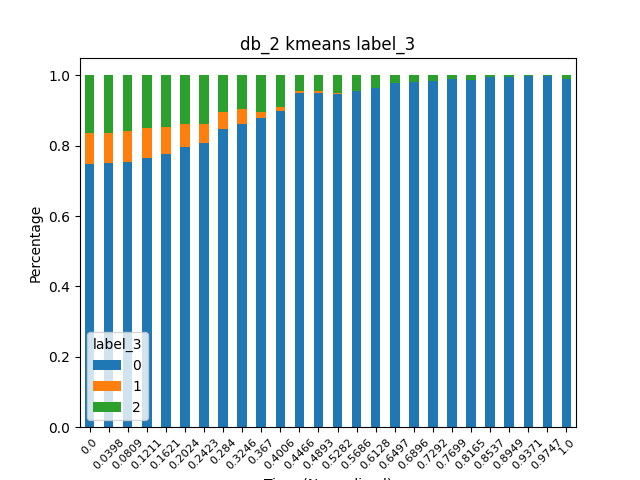
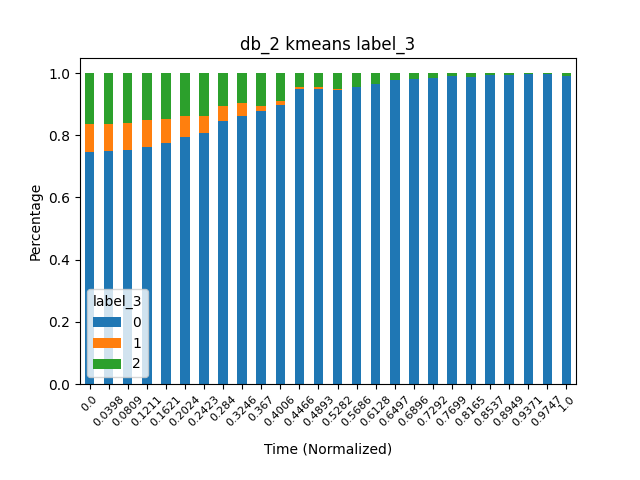
v0.4

diff --git a/utils/plot.py b/utils/plot.py
@@ -25,7 +25,8 @@ def plot_time_label(df, db_plot_dir):
         xtick_t = [np.round_(float(t.get_text().split()[-1]), 4) for t in plt.xticks()[1]]
         plt.xticks(xtick_pos, xtick_t, rotation=45, fontsize=8)
         plt.title(f'{db_idx} {model_name} {label}')
-        plt.xlabel('Time (Normalized)')
+        plt.xlabel('Time (Normalized)', labelpad=10)
+        plt.subplots_adjust(bottom=0.2)
         plt.ylabel('Percentage')
         plt.savefig(plot_path)
         
